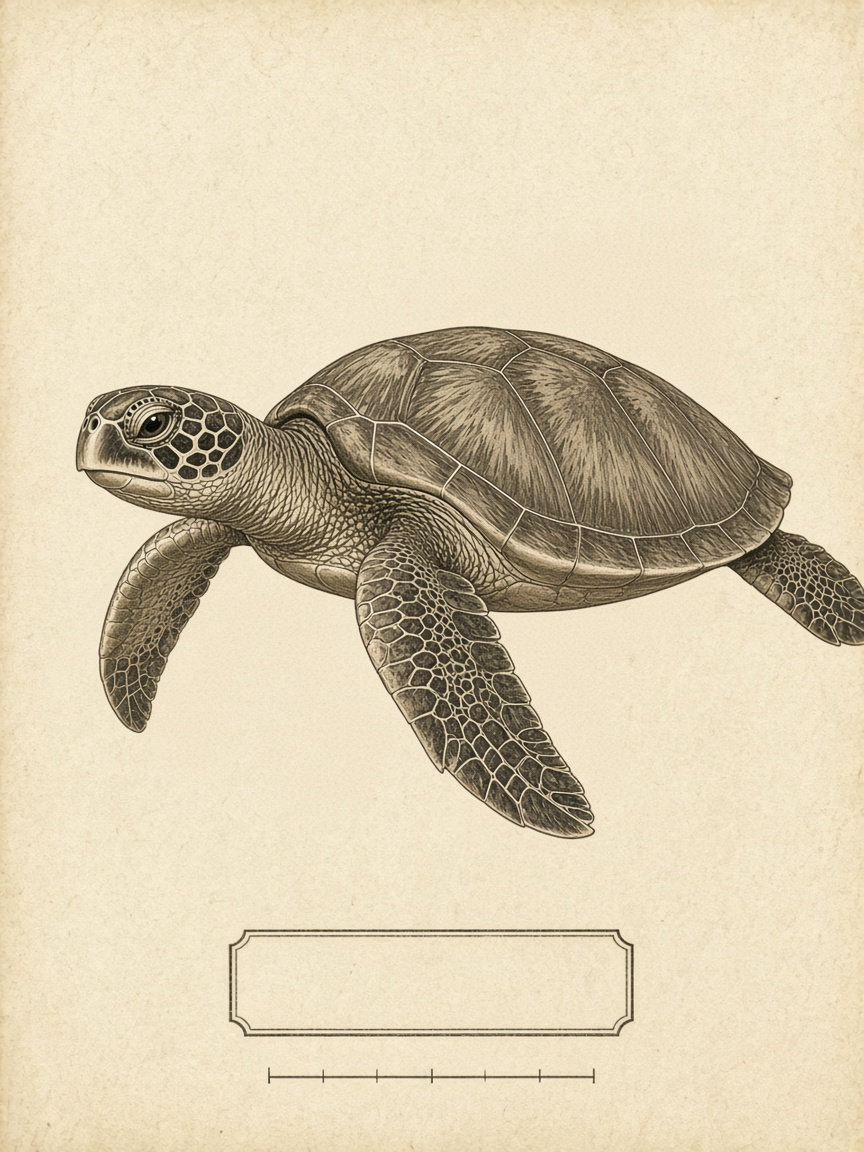
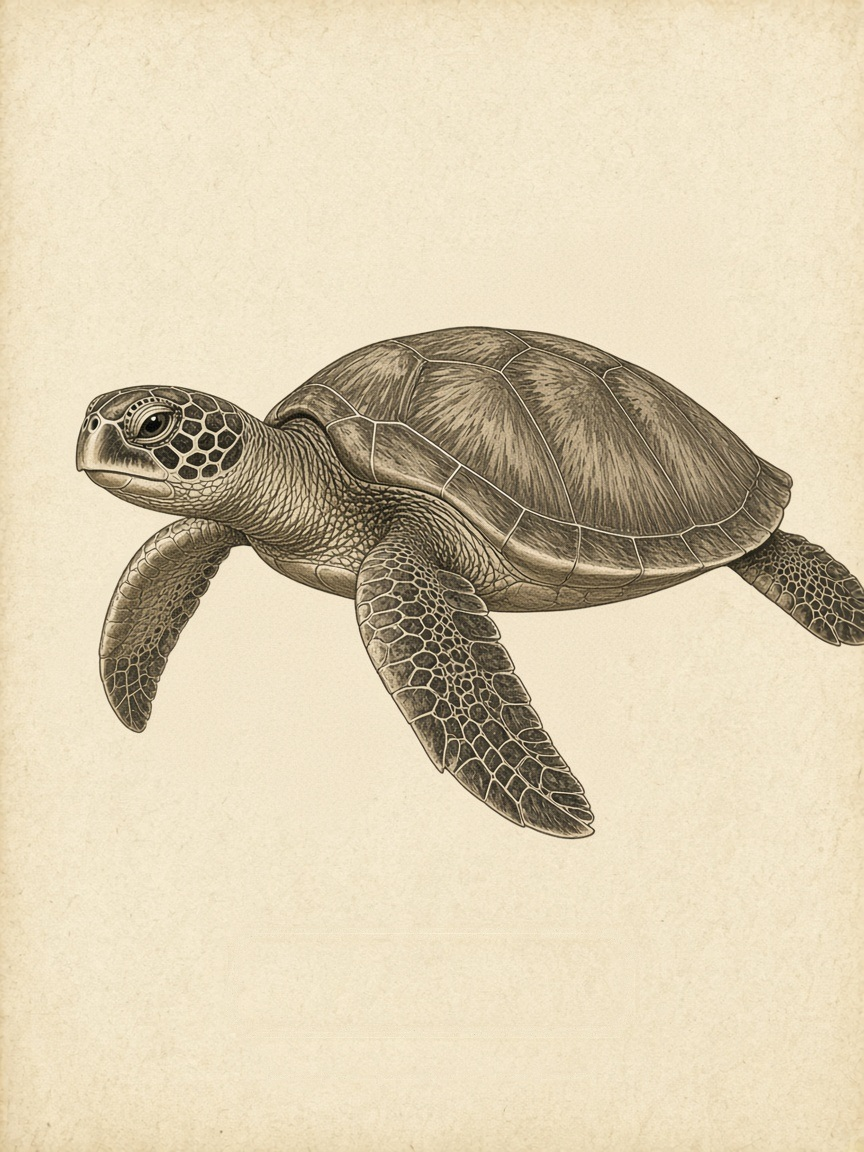
feat: 更新开发规范文档和样式，优化渊柜卡片展示
- 修改开发规范文档，明确渊柜卡片的展示规则，卡面仅印编号和品级。
- 更新 CSS 样式，调整渊柜卡片的视觉效果，去除多余的卡名和题款信息。
- 更新 CardVisual 组件，确保渊柜系列卡片的展示符合新规范。
- 替换多张渊柜系列图片，提升整体视觉质量。

Changed region(s): [[0.25, 0.8125, 0.75, 0.9375], [0.2812, 0.7812, 0.7188, 0.8125]]

diff --git a/src/index.css b/src/index.css
@@ -2812,27 +2812,11 @@ button.tear-track:active { cursor: grabbing; }
   line-height: 1.35;
   opacity: 0.88;
 }
-/* 渊柜的卡名印进画面上的标本图签，不跟下沿题款挤在一起。 */
+/* 渊柜下沿只留编号和品级，直接印在纸上。 */
 .card-front.is-plate.is-abyss .plate-copy {
-  top: 0;
-  padding: 0 5.5% 3.2%;
-  justify-content: flex-end;
-  background: linear-gradient(180deg, transparent 0 89%, rgba(12, 10, 8, 0.62) 94%, rgba(12, 10, 8, 0.88));
-}
-.card-front.is-plate.is-abyss .plate-name {
-  position: absolute;
-  left: 18%;
-  right: 18%;
-  top: 84.2%;
-  margin: 0;
-  transform: translateY(-50%);
-  color: #2a2418;
-  font-size: 4.4cqi;
-  font-weight: 600;
-  letter-spacing: 0.16em;
-  line-height: 1;
-  text-indent: 0.16em;
-  text-shadow: 0 0 6px rgba(244, 238, 226, 0.95);
+  padding: 0 5% 3.2%;
+  background: none;
+  color: #2c261c;
 }
 .card-front.is-plate .card-glare {
   z-index: 4;

diff --git a/src/components/CardVisual.tsx b/src/components/CardVisual.tsx
@@ -132,8 +132,9 @@ export function CardVisual({
         <span className="leaf-rank">{RANK[card.rarity]}</span>
       </div>
       <div className="plate-copy">
-        <h3 className="plate-name">{card.name}</h3>
-        <p className="plate-verse">{card.verse}</p>
+        {/* 渊柜卡面只印编号和品级。 */}
+        {card.seriesId === 'abyss' ? null : <h3 className="plate-name">{card.name}</h3>}
+        {card.seriesId === 'abyss' ? null : <p className="plate-verse">{card.verse}</p>}
         <footer className="leaf-foot">
           <span>{formatSerial(card)}</span>
           <span className="leaf-grade">{RARITY_LABEL[card.rarity]}</span>

diff --git a/docs/开发规范.md b/docs/开发规范.md
@@ -49,7 +49,7 @@
 
 ### 画心卡
 
-生肖双相、渊柜、窗台花房、棉绒马戏、末班电车、鞘翅匣、第二口、未发行、发条匣各用一种画面，数据在 `src/data/plates.ts`。整张正面是 `src/assets/plates/{系列}/{两位编号}.jpg`，由 `PlateArt` 按路径取用。卡名、一句题款、编号和品级印在画面下沿，不画进图里。卡背的岁印不变，字改成这一套的短码和名称。
+生肖双相、渊柜、窗台花房、棉绒马戏、末班电车、鞘翅匣、第二口、未发行、发条匣各用一种画面，数据在 `src/data/plates.ts`。整张正面是 `src/assets/plates/{系列}/{两位编号}.jpg`，由 `PlateArt` 按路径取用。卡名、一句题款、编号和品级印在画面下沿，不画进图里。渊柜的画面只有标本，卡面不印卡名和题款，只印编号和品级；卡名和题款在检视里，卡名也在开卡演出里。卡背的岁印不变，字改成这一套的短码和名称。
 
 ## 品级色
 
